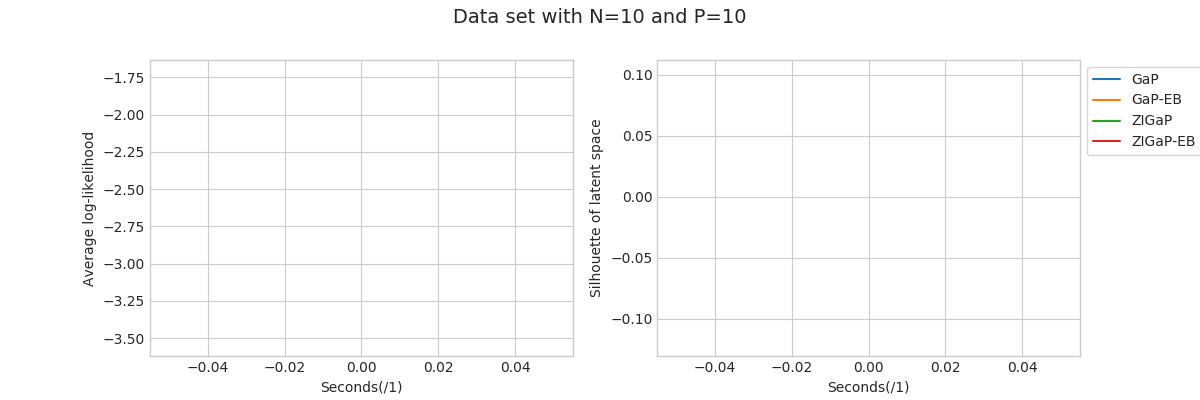
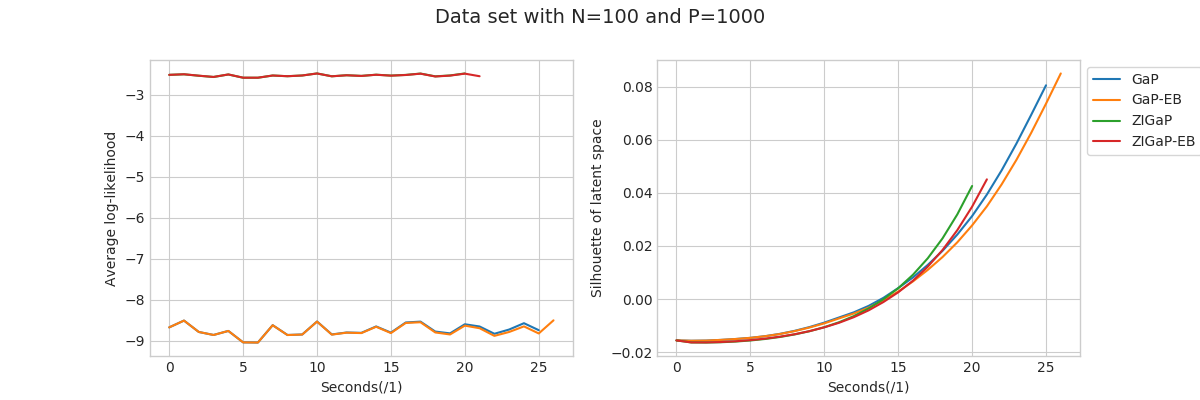
add zero_inflation experiment

diff --git a/scripts/simulations/zero_inflation/zero_inflation.py b/scripts/simulations/zero_inflation/zero_inflation.py
@@ -43,14 +43,14 @@ def main():
 	N = 100 # number of observations
 	P = 1000 # observation space dimensionality
 	K = 10 # latent space dimensionality
-	C = 3 # number of clusters
+	C = 2 # number of clusters
 
-	T = 60 * 5
-	S = 10
+	T = 60. * 5.
+	S = 10.
 
 	z_p_arr = [0., 0.3, 0.6] # none, low, high ZI
 	eps_arr = [2., 10.] # low, high separability
-	n_runs = 1 # number of experiments per setting
+	n_runs = 10 # number of experiments per setting
 
 	# Prior parameters
 	alpha = np.ones((2, K))

diff --git a/scripts/simulations/zero_inflation/one_run.py b/scripts/simulations/zero_inflation/one_run.py
@@ -52,10 +52,10 @@ def main():
 	C = 3 # number of clusters
 
 	T = 60 * 5
-	S = 1
+	S = 10
 
-	z_p = 0.3 # none, low, high ZI
-	eps = 5. # low, high separability
+	z_p = 0.3 # low ZI
+	eps = 5. # medium separability
 
 	Y, D, X, R, V, U, clusters = utils.generate_data(N, P, K, C=C, zero_prob=z_p,
                                                  eps=eps, return_all=True)
